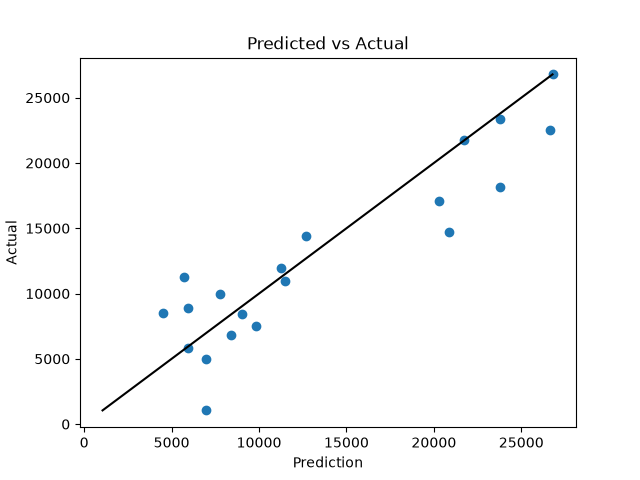
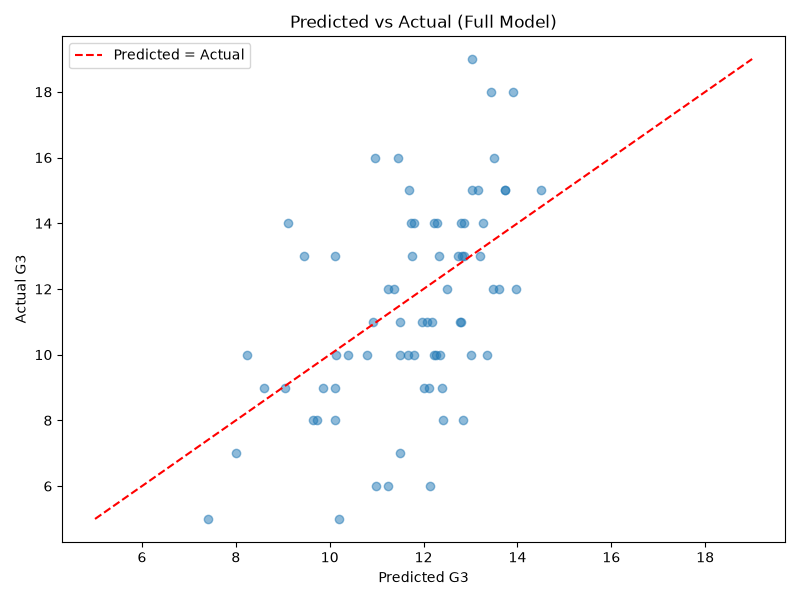
update assignemtn_02

diff --git a/assignments_02/project_02.py b/assignments_02/project_02.py
@@ -1,4 +1,5 @@
 import os
+
 import numpy as np
 import pandas as pd
 import matplotlib.pyplot as plt
@@ -9,6 +10,7 @@ from sklearn.cluster import KMeans
 from sklearn.datasets import make_blobs
 from sklearn.metrics import mean_squared_error, r2_score
 
+os.makedirs("outputs", exist_ok=True)
 
 # Task 1: Load and Explore
 # Observation: the file uses semicolons (;) to separate fields, not commas.
@@ -168,55 +170,85 @@ print(f"R2: {r2}")
 # about 9% of the differences between students — the rest depends on other things.
 
 # Task 5: Build the Full Model
-feature_cols = ["failures", "Medu", "Fedu", "studytime", "higher", "schoolsup",
-                "internet", "sex", "freetime", "activities", "traveltime"]
+feature_cols = [
+    "age",
+    "Medu",
+    "Fedu",
+    "traveltime",
+    "studytime",
+    "failures",
+    "absences",
+    "freetime",
+    "goout",
+    "Walc",
+    "schoolsup",
+    "internet",
+    "higher",
+    "activities",
+    "sex"
+]
 X = df_nonzero[feature_cols].values
 y = df_nonzero["G3"].values
+
 model = LinearRegression()
+
 X_train, X_test, y_train, y_test = train_test_split(
     X, y, test_size=0.2, random_state=42
 )
+
 model.fit(X_train, y_train)
+
 y_pred = model.predict(X_test)
+
+# Test metrics
 r2_test = r2_score(y_test, y_pred)
 rmse_test = np.sqrt(mean_squared_error(y_test, y_pred))
+
+# Train metrics
 y_train_pred = model.predict(X_train)
 r2_train = r2_score(y_train, y_train_pred)
 
 print(f"Train R2: {r2_train}")
-print(f"Test R2:  {r2_test}")
+print(f"Test R2: {r2_test}")
 print(f"Test RMSE: {rmse_test}")
 
+print("\nCoefficients:")
 for name, coef in zip(feature_cols, model.coef_):
     print(f"{name:12s}: {coef:+.3f}")
     
-# Comments:
+# Coefficient interpretation:
+#
+# The largest positive coefficient is internet (+1.037), while the largest
+# negative coefficient is schoolsup (-2.263).
+#
+# The negative schoolsup coefficient is surprising. A likely explanation
+# is reverse causation: students who are already struggling may be more
+# likely to receive extra school support. This does not mean that support
+# causes lower grades.
+#
+# Failures (-0.800) is also strongly negative, while studytime (+0.311)
+# is positive, which are both consistent with expectations.
+#
+# Goout (-0.313) and Walc (-0.268) are negative, while freetime (+0.014)
+# has almost no effect in this model.
 
-# failures    : -1.145
-# Medu        : +0.083
-# Fedu        : +0.186
-# studytime   : +0.448
-# higher      : +0.610
-# schoolsup   : -2.062 - biggest effect, but negative. Likely reversed causation support is given to student
-# who are already struggle, not the cause of low grades. 
-# internet    : +0.834 - bigger boost that expected can be possibility of a proxy for household resources rather than a direct cause.
-# sex         : +0.453
-# freetime    : -0.042
-# activities  : -0.009
-# traveltime  : -0.112
 
-# Test R² went from 0.089 (failures alone) to 0.154 with 11 features which is
-# better, but still modest. These 11 features only explain about 15%
-# of why grades differ between students likely because we excluded
-# G1 and G2, which had by far the strongest correlation with G3
-# Train 0.175 vs Test 0.154 small gap, so no real overfitting.
-# The model generalizes about as well on new data as on training data,
-# just weakly overall.
+# Train vs. test:
+#
+# A small gap between train and test R2 suggests that the model is not
+# heavily overfitting. The full model should also perform substantially
+# better than the Task 4 baseline because it uses all 15 predictors.
 
-# --- Production features ---
-# KEEP: failures, schoolsup, higher, internet, studytime - biggest
-# effects and match EDA or have a plausible explanation.
-# DROP: activities, freetime - near-zero coefficients, not significant in EDA either.
+
+# Production decision:
+#
+# I would keep features with stronger predictive relationships, such as
+# failures, studytime, internet, schoolsup, goout, Walc, Medu, and Fedu.
+#
+# I would consider dropping features with very small coefficients, such as
+# freetime, absences, activities, higher, age, and traveltime. However,
+# this decision should be validated with additional model testing rather
+# than based on coefficient size alone.
 
 # Task 6: Evaluate and Summarize
 
